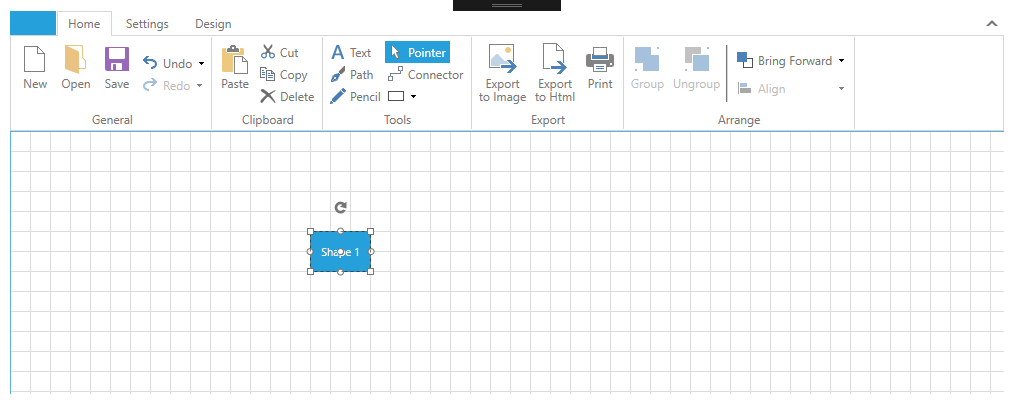
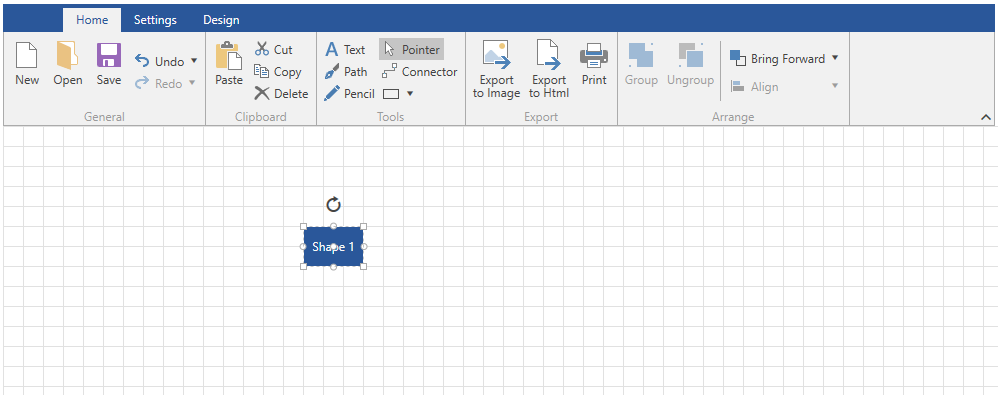
DiagramRibbon: Small Updates

Changed region(s): [[0.0, 0.0, 1.0, 0.9851]]

diff --git a/controls/raddiagram/extensions/diagramribbon/diagramribbon_overview.md b/controls/raddiagram/extensions/diagramribbon/diagramribbon_overview.md
@@ -24,8 +24,6 @@ The control is a configured [RadRibbonView]({%slug radribbonview-overview%}) whi
 >	- Telerik.Windows.Diagrams.Core
 >	- Telerik.Windows.Controls.Diagrams.Extensions
 
-## Overview
-
 __RadDiagramRibbon__ exposes a __Diagram__ property which is used to associate the ribbon with a particular diagram instance.
 
 #### __[XAML] Example 1: Specify RadDiagramRibbon in XAML__
@@ -59,9 +57,9 @@ To add a new tab you can just call the __Add()__ method of the __AdditionalTabs_
 {{region xaml-raddiagram-extensions-diagramribbon-overview-1}}
 	<telerik:RadDiagramRibbon x:Name="diagramRibbon"
 							  Diagram="{Binding ElementName=diagram}" >
-		<telerik:RadDiagramRibbon.AdditionalTabs>
-			<telerik:RadRibbonTab Header="New Tab"/>
-		</telerik:RadDiagramRibbon.AdditionalTabs>		
+		<telerik:RadRibbonTab Header="New Tab">
+			<telerik:RadRibbonGroup Header="New Group"/>
+		</telerik:RadRibbonTab>		
 	</telerik:RadDiagramRibbon>
 {{endregion}}
 
@@ -88,9 +86,11 @@ To add a new group to __Home__ tab for example first you can create a new __RadR
 {{region raddiagram-extensions-diagramribbon-overview-1}}
 	<telerik:RadDiagramRibbon x:Name="diagramRibbon"
 							  Diagram="{Binding ElementName=diagram}" >
-		<telerik:RadDiagramRibbon.AdditionalTabs>
-			<telerik:RadRibbonTab Header="New Tab"/>
-		</telerik:RadDiagramRibbon.AdditionalTabs>		
+		<telerik:RadDiagramRibbon.AdditionalGroups>
+			<telerik:RadRibbonGroup Header="New Group"  telerik:DiagramRibbonExtensions.RibbonTabHeader="Home">
+				<telerik:RadRibbonButton Content="My Button" VerticalContentAlignment="Center" Foreground="White" Background="#2A579A"/>
+			</telerik:RadRibbonGroup>
+		</telerik:RadDiagramRibbon.AdditionalGroups>	
 	</telerik:RadDiagramRibbon>
 {{endregion}}
 
@@ -101,7 +101,7 @@ To add a new group to __Home__ tab for example first you can create a new __RadR
 		RadRibbonButton button = new RadRibbonButton();
 		button.Content = "My Button";
 		button.Foreground = Brushes.White;
-		button.Background = new SolidColorBrush((Color)(ColorConverter.ConvertFromString("#25A0DA")));
+		button.Background = new SolidColorBrush((Color)(ColorConverter.ConvertFromString("#2A579A")));
 		button.VerticalContentAlignment = VerticalAlignment.Center;
 
 		RadRibbonGroup newGroup = new RadRibbonGroup();

diff --git a/controls/raddiagram/extensions/diagramribbon/diagramribbon_extensions.md b/controls/raddiagram/extensions/diagramribbon/diagramribbon_extensions.md
@@ -13,7 +13,7 @@ position: 1
 The __RadDiagramRibbon__ control allows you to easily add one or all of the following RadDiagram and RadRibbonView extensions. This way you can give the user ability to show/hide any of the specified extensions dynamically.
 
 #### __Figure 1: DiagramRibbon Extensions__ 
-![Diagram Ribbon Overview](images/RadDiagram_DiagramRibbon_Overview.png)
+![Diagram Ribbon Overview](images/RadDiagram_DiagramRibbon_Extensions.png)
 
 ## RadDiagramToolBox
 
